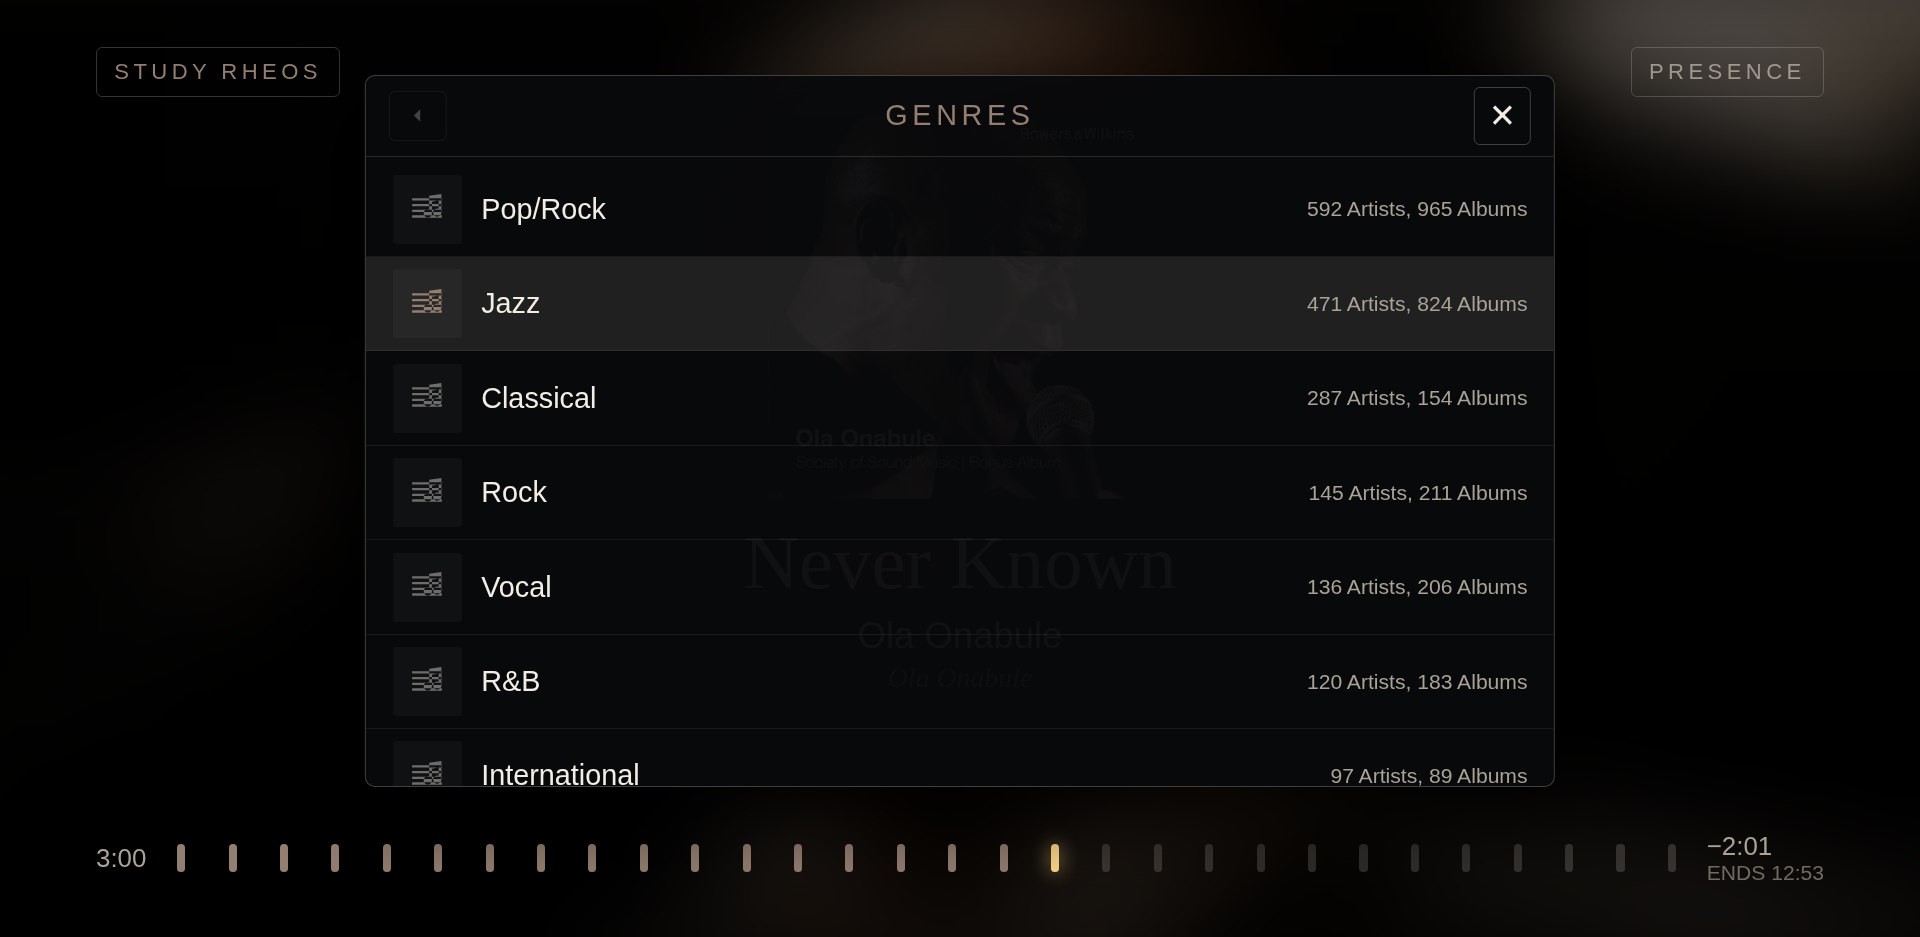
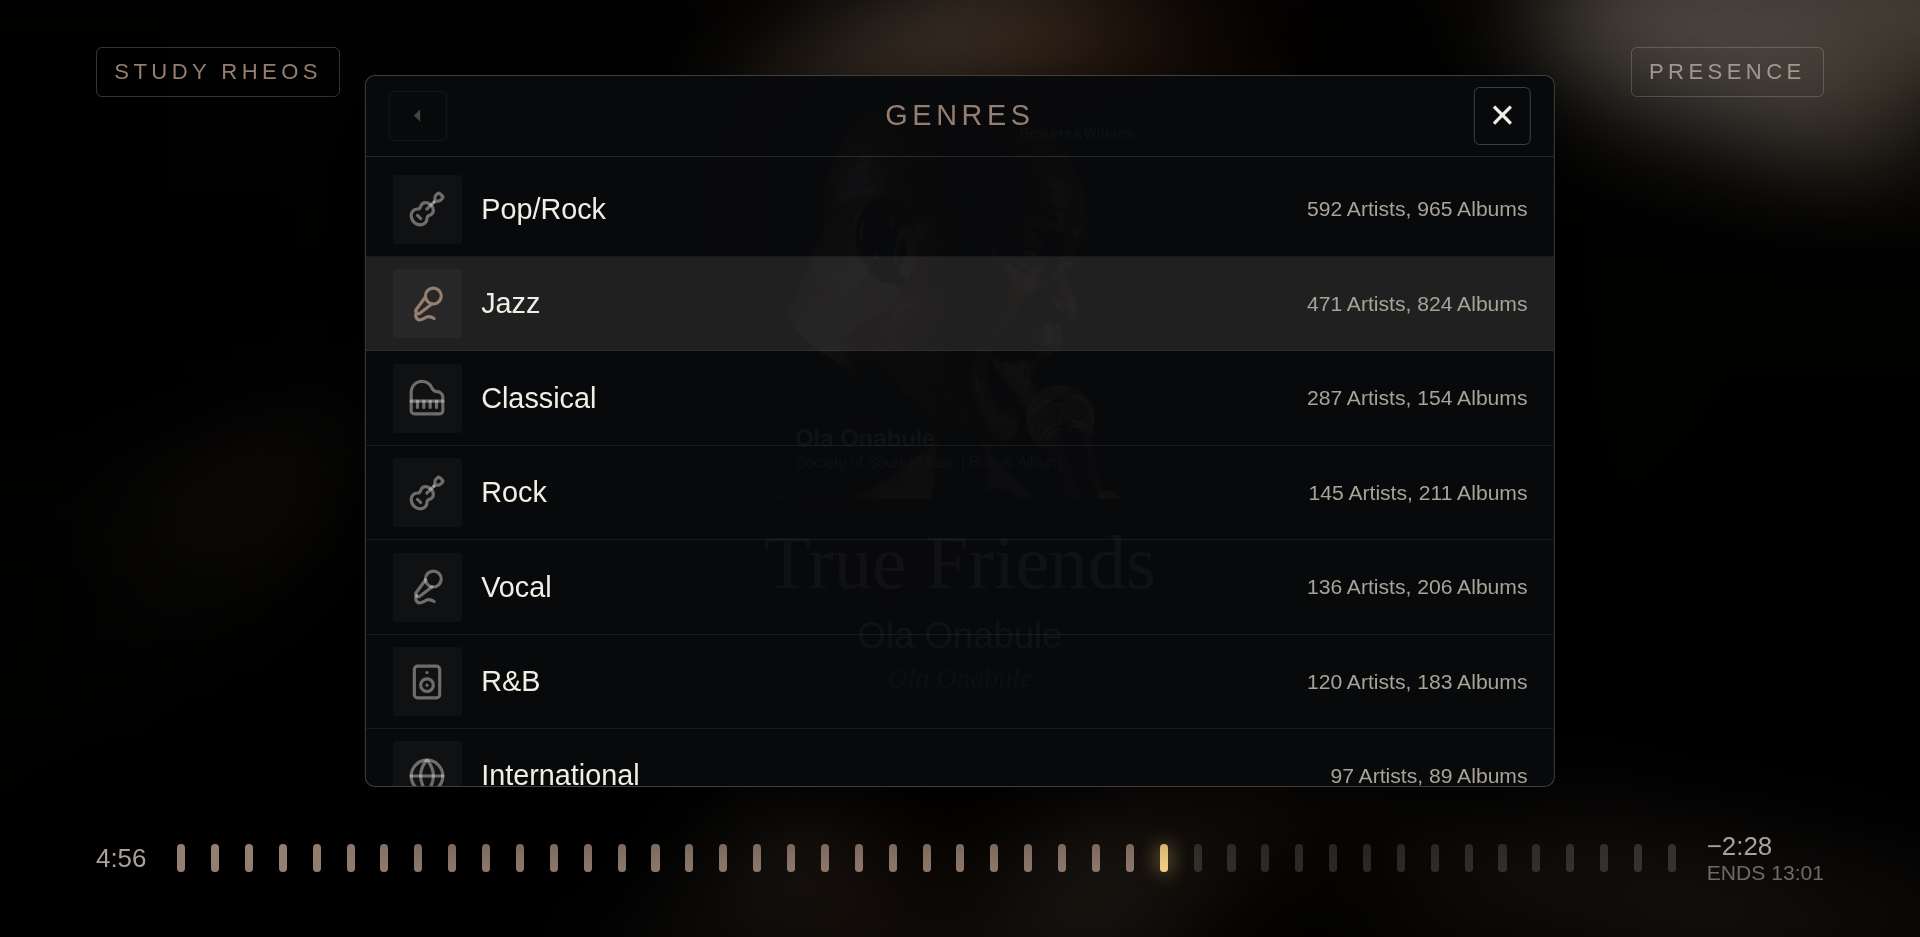
feat(browse): an instrument for every genre — 54 of Peter's 56 matched
Peter, 08-26: "guitar for rock, sax for jazz etc... match as many as you can
directly and we can discuss options for gaps."

Icons vendored from Lucide rather than hand-drawn, because a set of two dozen
instruments is beyond what a path written by hand should attempt. They are copied
into assets/icons/ and committed — the product never fetches at runtime, since the
CSP is `default-src 'none'` and nothing leaves the LAN. scripts/vendor-icons.mjs
records exactly which and from where.

⚖ LICENCE: Lucide is ISC (not MIT — checked, and the notice says what is true),
permissive and equivalent in effect. Chosen deliberately over CC BY sets such as
the Noun Project, whose attribution must travel with the RUNNING interface — an
awkward obligation on a television face and on anyone FlightDeck is later given to.
ISC asks only that the notice travels with the source. THIRD-PARTY-NOTICES.md.

Matched against Peter's own library rather than a guess at genre names: 54 of 56.
Compound names are matched longest-first, since Roon files things as "Pop/Rock" and
"Adult Alternative Pop/Rock". The gaps found on the first pass were real matches
waiting to be made — Score is a film score, Suite and Symphonic are written forms,
Norteño is regional, Karaoke is a microphone and nothing else.

The two that remain are "Unclassifiable" and "Miscellaneous", which have no
instrument because they are genuinely undefined. They keep the musical score.

diff --git a/assets/face.js b/assets/face.js
@@ -1214,13 +1214,86 @@ var BROWSE_ICONS = {
   shuffle:  'M16.6 4.6 21 8l-4.4 3.4V9H14c-1 0-1.7.5-2.4 1.5l-.7 1-1.2-1.7.6-.9C11.3 7.4 12.5 6.6 14 6.6h2.6zM3 6.6h3.2c1.4 0 2.6.8 3.6 2.3l3.4 5c.7 1 1.4 1.5 2.4 1.5h2.2v-2.5L22 16l-4.2 3.4v-2.5h-2.2c-1.5 0-2.7-.8-3.7-2.3l-3.4-5c-.7-1-1.3-1.5-2.3-1.5H3z',
 };
 
+/**
+ * A GENRE GETS ITS OWN INSTRUMENT (Peter, 08-26: "guitar for rock, sax for jazz").
+ *
+ * Matched on substrings, longest-first, because Roon's genre names are compound —
+ * "Pop/Rock", "Jazz Vocal", "Adult Alternative Pop/Rock". Anything unmatched keeps
+ * the musical score, so a library of unusual genres degrades to something sensible
+ * rather than to blanks.
+ */
+var GENRE_ICONS = [
+  ['jazz', 'mic-vocal'], ['blues', 'guitar'], ['classical', 'piano'], ['opera', 'theater'],
+  ['metal', 'zap'], ['punk', 'zap'], ['rock', 'guitar'], ['pop', 'disc-3'],
+  ['electronic', 'audio-lines'], ['dance', 'audio-lines'], ['techno', 'audio-lines'],
+  ['hip hop', 'speaker'], ['hip-hop', 'speaker'], ['rap', 'speaker'],
+  ['r&b', 'speaker'], ['soul', 'heart'], ['funk', 'drum'], ['reggae', 'sun'],
+  ['country', 'guitar'], ['folk', 'guitar'], ['bluegrass', 'guitar'],
+  ['gospel', 'church'], ['spiritual', 'church'], ['religious', 'church'],
+  ['world', 'globe'], ['international', 'globe'], ['latin', 'globe'], ['african', 'globe'],
+  ['vocal', 'mic-vocal'], ['soundtrack', 'clapperboard'], ['film', 'clapperboard'],
+  ['stage', 'theater'], ['screen', 'clapperboard'], ['comedy', 'theater'],
+  ['children', 'baby'], ['holiday', 'snowflake'], ['christmas', 'snowflake'],
+  ['new age', 'sparkles'], ['ambient', 'wind'], ['easy listening', 'wind'],
+  ['sea', 'ship'], ['shanty', 'ship'], ['fusion', 'flame'],
+  ['spoken', 'mic-vocal'], ['audiobook', 'mic-vocal'],
+  ['electronica', 'audio-lines'], ['house', 'audio-lines'],
+
+  // The gaps found against Peter's own 56 genres, 08-26. Each is a real match
+  // rather than a filler: "Score" is a film score, "Suite" and "Symphonic" are
+  // written forms, "Norteño" is regional, "Karaoke" is a microphone and nothing
+  // else. Only the genuinely unclassified ones fall through.
+  ['alternative', 'guitar'], ['indie', 'guitar'], ['acoustic', 'guitar'],
+  ['symphonic', 'music-4'], ['suite', 'file-music'], ['score', 'clapperboard'],
+  ['ballad', 'heart'], ['karaoke', 'mic-vocal'], ['avant', 'venetian-mask'],
+  ['norteño', 'globe'], ['norteno', 'globe'], ['tejano', 'globe'], ['mariachi', 'globe'],
+  ['chamber', 'file-music'], ['choral', 'church'], ['sacred', 'church'],
+  ['march', 'drum'], ['big band', 'mic-vocal'], ['swing', 'mic-vocal'],
+  ['bossa', 'globe'], ['samba', 'globe'], ['salsa', 'globe'], ['tango', 'globe'],
+  ['celtic', 'guitar'], ['americana', 'guitar'], ['singer', 'mic-vocal'],
+  ['soundtrack', 'clapperboard'], ['musical', 'theater'], ['broadway', 'theater'],
+  ['disco', 'disc-3'], ['lounge', 'wind'], ['chill', 'wind'], ['meditation', 'sparkles'],
+  ['experimental', 'shapes'], ['noise', 'shapes'], ['minimal', 'shapes'],
+];
+
+function genreIcon(title) {
+  var t = String(title || '').toLowerCase();
+  var best = null;
+  var bestLen = 0;
+  for (var i = 0; i < GENRE_ICONS.length; i += 1) {
+    var term = GENRE_ICONS[i][0];
+    if (t.indexOf(term) >= 0 && term.length > bestLen) { best = GENRE_ICONS[i][1]; bestLen = term.length; }
+  }
+  return best;
+}
+
+/** The vendored Lucide set, fetched from OUR OWN origin at boot. */
+var LUCIDE = {};
+fetch('/assets/icons/lucide.json')
+  .then(function (r) { return r.json(); })
+  .then(function (data) { LUCIDE = data || {}; })
+  .catch(function () { /* the drawn fallbacks still cover every row */ });
+
 function browseIcon(name) {
-  var d = BROWSE_ICONS[name];
-  if (d === undefined) return null;
   var svg = document.createElementNS(SVG_NS, 'svg');
   svg.setAttribute('viewBox', '0 0 24 24');
   svg.setAttribute('class', 'glyph browse-icon');
   svg.setAttribute('aria-hidden', 'true');
+
+  // Lucide draws with strokes rather than fills, which is why its icons carry a
+  // consistent weight; ours are filled paths. Both are accepted so the vendored
+  // set and the hand-drawn fallbacks can sit in one list.
+  if (Object.prototype.hasOwnProperty.call(LUCIDE, name)) {
+    svg.setAttribute('fill', 'none');
+    svg.setAttribute('stroke', 'currentColor');
+    svg.setAttribute('stroke-width', '2');
+    svg.setAttribute('stroke-linecap', 'round');
+    svg.setAttribute('stroke-linejoin', 'round');
+    svg.innerHTML = LUCIDE[name];
+    return svg;
+  }
+  var d = BROWSE_ICONS[name];
+  if (d === undefined) return null;
   var path = document.createElementNS(SVG_NS, 'path');
   path.setAttribute('fill', 'currentColor');
   path.setAttribute('d', d);
@@ -1239,7 +1312,7 @@ function iconFor(item, hierarchy) {
     return 'playnow';
   }
   if (title.indexOf('play ') === 0) return 'playnow';
-  if (hierarchy === 'genres') return 'score';
+  if (hierarchy === 'genres') return genreIcon(item.title) || 'score';
   if (hierarchy === 'composers' || hierarchy === 'artists') return 'person';
   if (hierarchy === 'playlists') return 'list';
   if (hierarchy === 'internet_radio') return 'radio';

diff --git a/src/http/server.ts b/src/http/server.ts
@@ -84,6 +84,7 @@ const ASSET_TYPES = new Map<string, string>([
   ['.css', 'text/css; charset=utf-8'],
   ['.svg', 'image/svg+xml'],
   ['.png', 'image/png'],
+  ['.json', 'application/json; charset=utf-8'],
   ['.woff2', 'font/woff2'],
   ['.webmanifest', 'application/manifest+json'],
 ]);

diff --git a/THIRD-PARTY-NOTICES.md b/THIRD-PARTY-NOTICES.md
@@ -1,0 +1,61 @@
+# Third-party notices
+
+FlightDeck vendors a small number of icons. Nothing is fetched at runtime — the
+CSP is `default-src 'none'` and nothing leaves the LAN — so these are copied into
+`assets/icons/` and committed. `scripts/vendor-icons.mjs` records exactly which
+ones and where from.
+
+## Lucide — ISC
+
+Used for the genre and category icons in the browse lists.
+https://lucide.dev · https://github.com/lucide-icons/lucide
+
+ISC — a permissive licence equivalent in effect to MIT — was chosen deliberately
+over CC BY sets such as the Noun Project. CC BY requires visible attribution that
+must travel with the running interface, which is an awkward obligation to place on
+a television face and on anyone FlightDeck is later given to. ISC asks only that
+this notice travels with the source.
+
+ISC License
+
+Copyright (c) 2026 Lucide Icons and Contributors
+
+Permission to use, copy, modify, and/or distribute this software for any
+purpose with or without fee is hereby granted, provided that the above
+copyright notice and this permission notice appear in all copies.
+
+THE SOFTWARE IS PROVIDED "AS IS" AND THE AUTHOR DISCLAIMS ALL WARRANTIES
+WITH REGARD TO THIS SOFTWARE INCLUDING ALL IMPLIED WARRANTIES OF
+MERCHANTABILITY AND FITNESS. IN NO EVENT SHALL THE AUTHOR BE LIABLE FOR
+ANY SPECIAL, DIRECT, INDIRECT, OR CONSEQUENTIAL DAMAGES OR ANY DAMAGES
+WHATSOEVER RESULTING FROM LOSS OF USE, DATA OR PROFITS, WHETHER IN AN
+ACTION OF CONTRACT, NEGLIGENCE OR OTHER TORTIOUS ACTION, ARISING OUT OF
+OR IN CONNECTION WITH THE USE OR PERFORMANCE OF THIS SOFTWARE.
+
+---
+
+The following Lucide icons are derived from the Feather project:
+
+airplay, alert-circle, alert-octagon, alert-triangle, aperture, arrow-down-circle, arrow-down-left, arrow-down-right, arrow-down, arrow-left-circle, arrow-left, arrow-right-circle, arrow-right, arrow-up-circle, arrow-up-left, arrow-up-right, arrow-up, at-sign, calendar, cast, check, chevron-down, chevron-left, chevron-right, chevron-up, chevrons-down, chevrons-left, chevrons-right, chevrons-up, circle, clipboard, clock, code, columns, command, compass, corner-down-left, corner-down-right, corner-left-down, corner-left-up, corner-right-down, corner-right-up, corner-up-left, corner-up-right, crosshair, database, divide-circle, divide-square, dollar-sign, download, external-link, feather, frown, hash, headphones, help-circle, info, italic, key, layout, life-buoy, link-2, link, loader, lock, log-in, log-out, maximize, meh, minimize, minimize-2, minus-circle, minus-square, minus, monitor, moon, more-horizontal, more-vertical, move, music, navigation-2, navigation, octagon, pause-circle, percent, plus-circle, plus-square, plus, power, radio, rss, search, server, share, shopping-bag, sidebar, smartphone, smile, square, table-2, tablet, target, terminal, trash-2, trash, triangle, tv, type, upload, x-circle, x-octagon, x-square, x, zoom-in, zoom-out
+
+The MIT License (MIT) (for the icons listed above)
+
+Copyright (c) 2013-present Cole Bemis
+
+Permission is hereby granted, free of charge, to any person obtaining a copy
+of this software and associated documentation files (the "Software"), to deal
+in the Software without restriction, including without limitation the rights
+to use, copy, modify, merge, publish, distribute, sublicense, and/or sell
+copies of the Software, and to permit persons to whom the Software is
+furnished to do so, subject to the following conditions:
+
+The above copyright notice and this permission notice shall be included in all
+copies or substantial portions of the Software.
+
+THE SOFTWARE IS PROVIDED "AS IS", WITHOUT WARRANTY OF ANY KIND, EXPRESS OR
+IMPLIED, INCLUDING BUT NOT LIMITED TO THE WARRANTIES OF MERCHANTABILITY,
+FITNESS FOR A PARTICULAR PURPOSE AND NONINFRINGEMENT. IN NO EVENT SHALL THE
+AUTHORS OR COPYRIGHT HOLDERS BE LIABLE FOR ANY CLAIM, DAMAGES OR OTHER
+LIABILITY, WHETHER IN AN ACTION OF CONTRACT, TORT OR OTHERWISE, ARISING FROM,
+OUT OF OR IN CONNECTION WITH THE SOFTWARE OR THE USE OR OTHER DEALINGS IN THE
+SOFTWARE.
